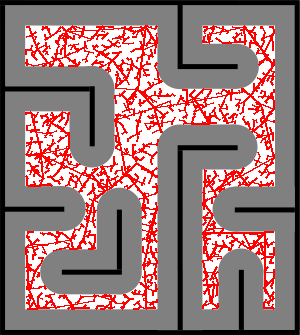
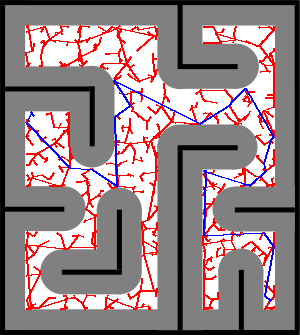
finished lab 10

Changed region(s): [[0.06, 0.0597, 0.93, 0.9254]]

diff --git a/lab1/lab10.py b/lab1/lab10.py
@@ -1,8 +1,8 @@
 from pyCreate2 import create2
 import lab10_map
 import random
-import math
 import numpy
+import vertex
 
 
 class Run:
@@ -10,24 +10,39 @@ class Run:
         self.create = factory.create_create()
         self.time = factory.create_time_helper()
         self.map = lab10_map.Map("lab10.png")
-        self.RRTree = RRTree(5,self.map)
+        self.RRTree = RRTree(1,self.map)
 
     def run(self):
 
-        #define starting point
-
-        # This is an example on how to check if a certain point in the given map is an obstacle
-        # Each pixel corresponds to 1cm
-
-        for i in range(6000):
+        for i in range(2000):
             #generate random x
             x_pos = random.randint(0,299)
             y_pos = random.randint(0,334)
-            self.RRTree.step(vertex(x_pos,y_pos))
+            randompoint = vertex.vertex(x_pos,y_pos)
+            closest = self.RRTree.find_nearest(randompoint)
+            actual = self.RRTree.place_point(closest, randompoint)
+            if actual is None:
+                continue
+            if closest.getDistance(actual.x, actual.y) < self.RRTree.delta:
+                continue
+            else:
+                print("adding point", i)
+                self.RRTree.vertices.append(actual)
+                self.RRTree.pairs.append((actual, closest))
+                actual.parent = closest
 
-        for v in self.RRTree.pairs:
-            self.map.draw_line((v[0].x, v[0].y), (v[1].x, v[1].y), (255, 0, 0))
+        self.RRTree.draw(self.RRTree.pairs)
         print(len(self.RRTree.vertices))
+
+        solution = self.RRTree.find_nearest(self.RRTree.goal)
+        path = []
+        while True:
+            if solution.parent is not None:
+                self.map.draw_line((solution.x, solution.y), (solution.parent.x, solution.parent.y), (0, 0, 255))
+                path.append(solution)
+                solution = solution.parent
+            else:
+                break
 
         self.map.save("lab10_rrt.png")
 
@@ -36,10 +51,12 @@ class Run:
 class RRTree:
     def __init__(self, delta, lab10map):
         self.vertices = []
-        self.vertices.append(vertex(270,300))
+        # starting point defined below
+        self.vertices.append(vertex.vertex(270, 300))
         self.map = lab10map
         self.pairs = []
-        self.delta = 2
+        self.delta = delta
+        self.goal = vertex.vertex(40,120)
 
     def find_nearest(self,vertex):
         min_distance = 500
@@ -58,39 +75,20 @@ class RRTree:
         for i in range(800):
             if self.map.has_obstacle(int(x_array[i]), int(y_array[i])):
                 if i >= 1:
-                    print("chose these coordinates", (x_array[i], y_array[i]))
-                    return vertex(x_array[i - 1], y_array[i - 1])
+                    return vertex.vertex(x_array[i - 1], y_array[i - 1])
                 else:
                     return None
         return vertex2
 
-    def step(self, randompoint):
-        closest = self.find_nearest(randompoint)
-        actual = self.place_point(closest, randompoint)
-        if actual is None:
-            return
-        if closest.getDistance(actual.x, actual.y) < self.delta:
-            return
-        else:
-            self.vertices.append(actual)
-            self.pairs.append((actual, closest))
-            actual.parent = closest
-            return
+    def draw(self, array):
+        for v in array:
+            self.map.draw_line((v[0].x, v[0].y), (v[1].x, v[1].y), (255, 0, 0))
 
-class vertex:
-    def __init__(self, x, y):
-        self.x = x
-        self.y = y
-        self.parent = None
-        self.nb = []
 
-    def addNeighbor(self, neighbor):
-        self.nb.append(neighbor)
 
-    def getDistance(self, x, y):
-        dx = self.x - x
-        dy = self.y - y
-        return math.sqrt(pow(dx, 2) + pow(dy, 2))
+
+
+
 
 
 

diff --git a/lab1/vertex.py b/lab1/vertex.py
@@ -1,0 +1,17 @@
+import math
+
+
+class vertex:
+    def __init__(self, x, y):
+        self.x = x
+        self.y = y
+        self.parent = None
+        self.nb = []
+
+    def addNeighbor(self, neighbor):
+        self.nb.append(neighbor)
+
+    def getDistance(self, x, y):
+        dx = self.x - x
+        dy = self.y - y
+        return math.sqrt(pow(dx, 2) + pow(dy, 2))

diff --git a/lab1/lab10_map.py b/lab1/lab10_map.py
@@ -9,8 +9,6 @@ class Map:
     def __init__(self, file_name):
         self.img = Image.open(file_name)
         self.width, self.height = self.img.size
-        print(self.width)
-        print(self.height)
         self.draw = ImageDraw.Draw(self.img)
 
     def has_obstacle(self, x, y):
